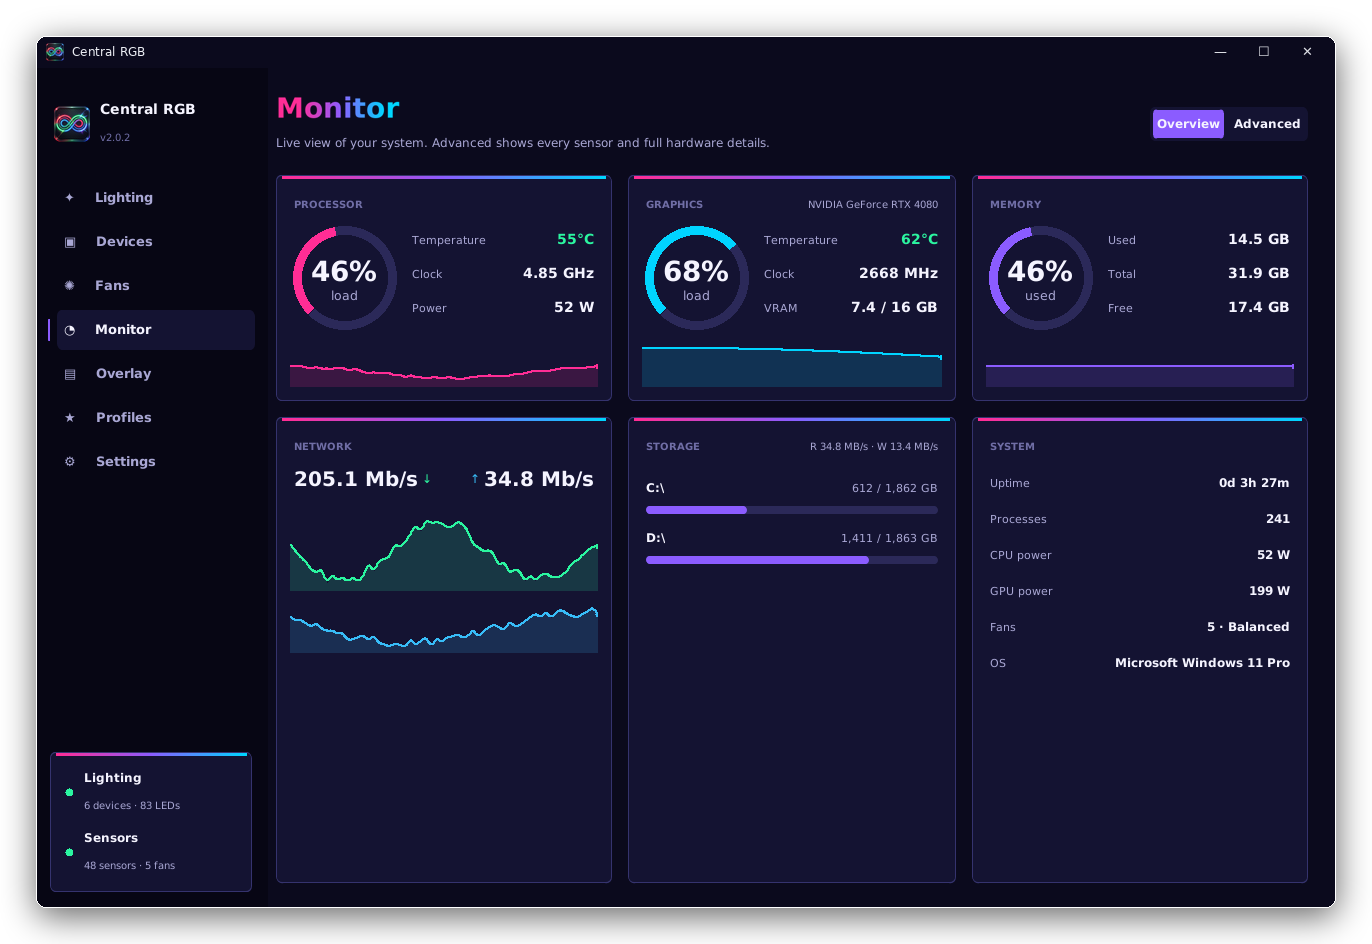
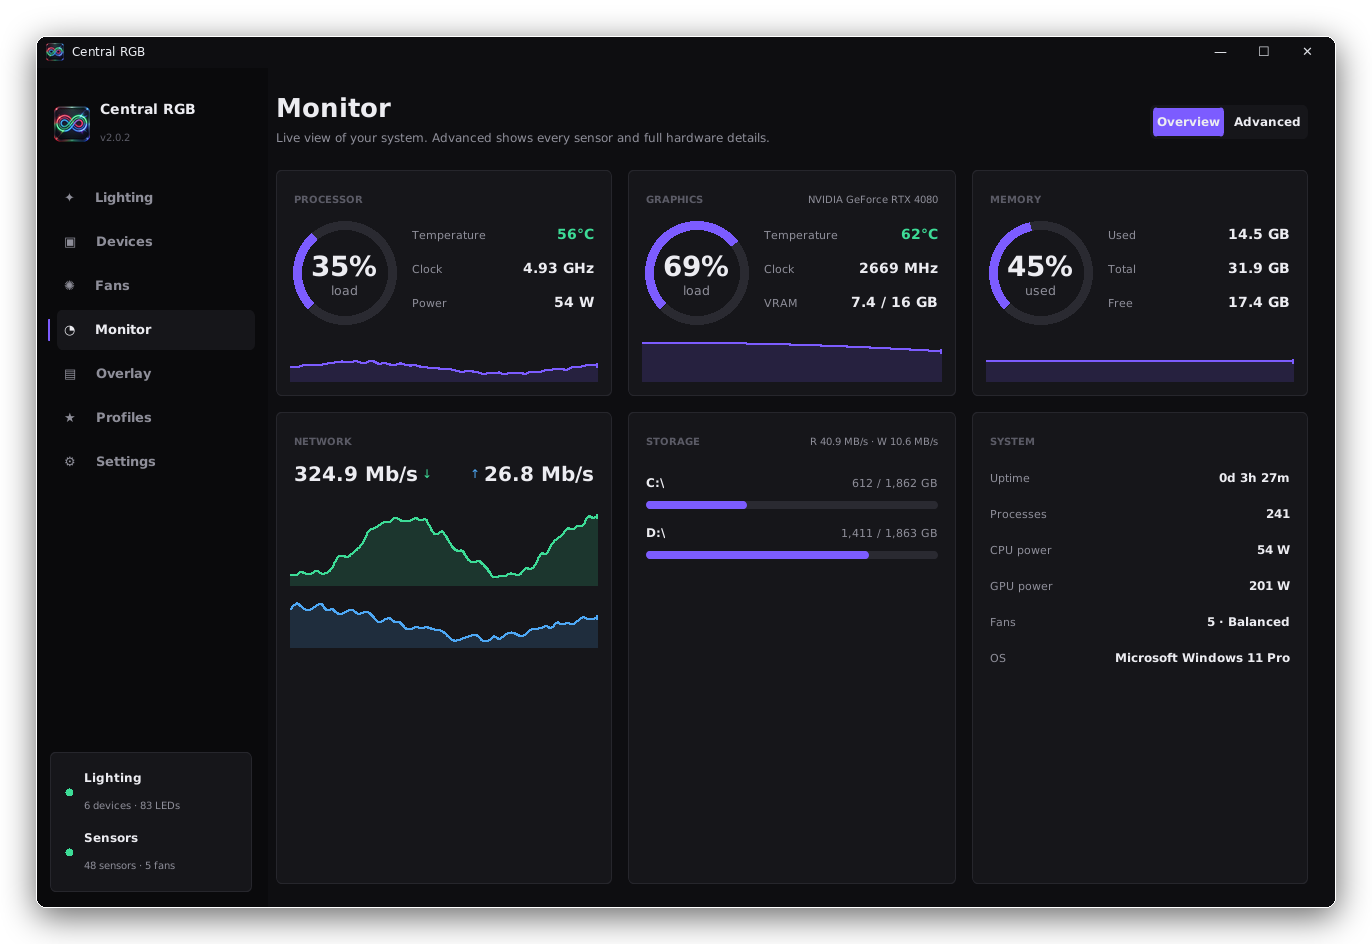
Simple dark theme, installer compatibility check and build self-test
- Simple dark UI: neutral charcoal panels, one accent, no gradients
- Remove the frosted glass and window translucency (and their settings)
- Installer blocks Windows older than 10 1803 and ARM PCs with a clear message
- --selftest mode: opens every page and runs the system check, exit code reports pass/fail
- GitHub Actions launches the built exe as a self-test before building the installer

diff --git a/central_rgb.py b/central_rgb.py
@@ -11,7 +11,7 @@ Central RGB - RGB lighting, fan control and system monitoring in one sleek app.
 
 Pages: Lighting · Devices · Fans · Monitor (Overview / Advanced) · Profiles · Settings
 Layers: rgb_engine (OpenRGB lighting) · hw_monitor (sensors + fans via LibreHardwareMonitor)
-        win_effects (frosted-glass window on Windows 10/11)
+        win_effects (dark, seamless title bar on Windows 10/11)
 
 Run:  python central_rgb.py               (normal window)
       python central_rgb.py --background  (start minimized, re-apply last lighting)
@@ -43,20 +43,15 @@ APP_VERSION = eng.APP_VERSION
 TASK_NAME = "CentralRGB"
 
 # ----------------------------------------------------------------------------- palette
-# In glass mode the window background is pure black, which Windows turns into the
-# blurred desktop; dark panel colours then read as tinted, frosted glass.
-GLASS = dict(BG="#000000", SIDE="#000000", CARD="#14161c", CARD2="#1c1f27", LINE="#262a35",
-             TEXT="#f2f4f8", MUTED="#8c94a6", FAINT="#4a5061", TRACK="#22252e")
-# Default "Aurora" theme: layered indigo surfaces with vivid pink / violet / cyan accents.
-SOLID = dict(BG="#0b0a1d", SIDE="#070614", CARD="#141332", CARD2="#1e1d48", LINE="#35336e",
-             TEXT="#f5f4ff", MUTED="#a9a7d4", FAINT="#706ea6", TRACK="#2b2959")
+# Simple dark theme: neutral charcoal surfaces, one accent colour.
+SOLID = dict(BG="#0e0e11", SIDE="#0a0a0c", CARD="#16161a", CARD2="#1f1f24", LINE="#26262c",
+             TEXT="#ececf1", MUTED="#8e8e99", FAINT="#5b5b66", TRACK="#2a2a31")
 P = dict(SOLID)
-OK, WARN, BAD, INFO = "#2bf5a0", "#ffc533", "#ff4d6d", "#38bdf8"
+OK, WARN, BAD, INFO = "#3ddc97", "#f5b942", "#f2555a", "#4ea8f5"
 PINK, VIOLET, CYAN = "#ff2d95", "#8b5cff", "#00d4ff"
 GRAD = (PINK, VIOLET, CYAN)          # signature gradient
 RADIUS = 6                           # squared-off corners everywhere
-DEFAULT_OPACITY = 94                 # slightly translucent window
-DEFAULT_ACCENT = "#8b5cff"   # brand accent (vivid violet)
+DEFAULT_ACCENT = "#7c5cff"   # brand accent (violet)
 FONT = "Segoe UI Variable Display" if (eng.IS_WIN and fx.win_build() >= 22000) else ("Segoe UI" if eng.IS_WIN else "DejaVu Sans")
 MONO = "Cascadia Mono" if eng.IS_WIN else "DejaVu Sans Mono"
 
@@ -161,7 +156,8 @@ class GradBar(tk.Canvas):
 
 
 def accent_bar(frame):
-    GradBar(frame).place(x=RADIUS, y=1, relwidth=1, width=-2 * RADIUS)
+    """Cards are plain in the simple theme (kept as a hook)."""
+    return None
 
 
 class Splash(tk.Frame):
@@ -207,15 +203,6 @@ class Splash(tk.Frame):
         self.started, self.t0 = True, time.time()
         self._tick()
 
-    def _target_alpha(self):
-        return max(0.6, min(1.0, int(self.root.settings.data.get("opacity", DEFAULT_OPACITY)) / 100))
-
-    def _set_window_alpha(self, k):
-        try:
-            self.root.attributes("-alpha", self._target_alpha() * k)
-        except tk.TclError:
-            pass
-
     @staticmethod
     def _smooth(k):
         k = max(0.0, min(1.0, k))
@@ -227,8 +214,10 @@ class Splash(tk.Frame):
         t = time.time() - self.t0
         t_out = self.T_IN + self.T_HOLD
         t_dip = t_out + self.T_OUT
-        if t >= t_dip:                                   # logo is gone: cross-fade the window to the app
-            self._fade_to_app()
+        if t >= t_dip:                                   # logo has faded out: reveal the app
+            self.destroy()
+            if self.on_done:
+                self.on_done()
             return
         w, h, sc = max(self.winfo_width(), 200), max(self.winfo_height(), 200), self.sc
         cx, cy = w / 2, h / 2 - 40 * sc
@@ -258,29 +247,6 @@ class Splash(tk.Frame):
         cv.itemconfigure(self.line, fill=hexcol(mix(bg, hex2rgb(lerp_grad((t * 0.5) % 1.0)), kt)))
         self.after(1000 // self.FPS, self._tick)
 
-    def _fade_to_app(self, phase=0, t0=None):
-        """Dip the window's opacity, swap the splash for the app, and fade back up."""
-        if t0 is None:
-            t0 = time.time()
-        t = time.time() - t0
-        if phase == 0:
-            k = min(1.0, t / self.T_DIP)
-            self._set_window_alpha(1 - 0.55 * self._smooth(k))
-            if k >= 1.0:
-                if self.winfo_exists():
-                    self.place_forget()
-                self.root.after(10, lambda: self._fade_to_app(1))
-                return
-        else:
-            k = min(1.0, t / self.T_RISE)
-            self._set_window_alpha(0.45 + 0.55 * self._smooth(k))
-            if k >= 1.0:
-                if self.winfo_exists():
-                    self.destroy()
-                if self.on_done:
-                    self.on_done()
-                return
-        self.root.after(1000 // self.FPS, lambda: self._fade_to_app(phase, t0))
 
 
 def F(size, weight="normal"):
@@ -617,10 +583,11 @@ class FanCard(ctk.CTkFrame):
 class App(ctk.CTk):
     TEST_BACKEND = None   # tests can inject a simulated sensor backend
 
-    def __init__(self, background=False):
+    def __init__(self, background=False, selftest=None):
+        self.selftest = selftest          # path to write the result to, when run with --selftest
+        self.selftest_errors: list[str] = []
         self.settings = eng.Settings()
-        self.glass = bool(self.settings.data.get("glass_experimental", False)) and (fx.glass_supported() or os.environ.get("RGBC_GLASS_PALETTE"))
-        P.update(GLASS if self.glass else SOLID)
+        P.update(SOLID)
         ctk.set_appearance_mode("dark")
         super().__init__(fg_color=P["BG"])
         self.title(eng.APP_NAME)
@@ -675,18 +642,48 @@ class App(ctk.CTk):
             self.iconify()
         if self.splash is not None:
             self.splash.begin()
+        if selftest:
+            self.after(2500, self._run_selftest)
+            return
         self.after(300, lambda: self._bg(self._startup))
         self.after(800, lambda: self._bg(self._load_sysinfo))
 
+    # ---------------------------------------------------------------- self-test (used by the CI build)
+    def report_callback_exception(self, exc, val, tb):
+        msg = "".join(traceback.format_exception(exc, val, tb))
+        if self.selftest is not None:
+            self.selftest_errors.append(msg)
+        sys.stderr.write(msg)
+
+    def _run_selftest(self):
+        """Open every page, draw the overlay preview, run the system check, then report and exit."""
+        steps = []
+        try:
+            for name, _ in NAV:
+                self.show_page(name)
+                self.update()
+                steps.append(f"page {name}: ok")
+            self.overlay_preview.render(self.overlay_cfg, {"name": "test", "fps": 144, "low": 110, "ms": 6.9}, {})
+            steps.append("overlay preview: ok")
+            res = eng.system_check()
+            steps.append(f"system check: {len(res)} results")
+            for level, msg in res:
+                steps.append(f"  [{level}] {msg}")
+            steps.append(f"monitor: {self.monitor.snapshot()['status']}")
+        except Exception:
+            self.selftest_errors.append(traceback.format_exc())
+        ok = not self.selftest_errors
+        report = [f"Central RGB {eng.APP_VERSION} self-test: {'PASSED' if ok else 'FAILED'}"] + steps + self.selftest_errors
+        try:
+            Path(self.selftest).write_text("\n".join(report), encoding="utf-8")
+        except Exception:
+            pass
+        self.engine.stop()
+        os._exit(0 if ok else 1)
+
     def _window_effects(self):
         fx.dark_titlebar(self)
-        if not self.glass:
-            fx.titlebar_colors(self, P["BG"], P["LINE"], P["TEXT"])   # seamless title bar on Windows 11
-        if self.glass and fx.glass_supported():
-            fx.apply_glass(self)
-        op = int(self.settings.data.get("opacity", DEFAULT_OPACITY))
-        if op < 100:
-            fx.set_opacity(self, op)
+        fx.titlebar_colors(self, P["BG"], P["LINE"], P["TEXT"])   # seamless title bar on Windows 11
 
     def _set_icon(self):
         try:
@@ -755,7 +752,7 @@ class App(ctk.CTk):
         h.pack(fill="x", pady=(0, 18))
         txt = ctk.CTkFrame(h, fg_color="transparent")
         txt.pack(side="left", fill="x", expand=True)
-        img = grad_text(title)
+        img = None
         if img is not None:
             ctk.CTkLabel(txt, text="", image=img, anchor="w").pack(fill="x")
         else:
@@ -1286,22 +1283,22 @@ class App(ctk.CTk):
         acc = self.accent
         # CPU
         g = self.g_cpu
-        g["ring"].set(m.get("cpu_load"), fmt(m.get("cpu_load"), "%"), "load", PINK)
+        g["ring"].set(m.get("cpu_load"), fmt(m.get("cpu_load"), "%"), "load", acc)
         (l1, v1), (l2, v2), (l3, v3) = g["rows"]["a"], g["rows"]["b"], g["rows"]["c"]
         l1.configure(text="Temperature"); v1.configure(text=fmt(m.get("cpu_temp"), "°C"), text_color=temp_color(m.get("cpu_temp")))
         l2.configure(text="Clock"); v2.configure(text=fmt((m.get("cpu_clock") or 0) / 1000 if m.get("cpu_clock") else None, " GHz", 2))
         l3.configure(text="Power"); v3.configure(text=fmt(m.get("cpu_power"), " W"))
-        g["spark"].set(hist.get("cpu_load", []), 100, PINK)
+        g["spark"].set(hist.get("cpu_load", []), 100, acc)
         # GPU
         g = self.g_gpu
         g["name"].configure(text=(m.get("gpu_name") or "")[:26])
-        g["ring"].set(m.get("gpu_load"), fmt(m.get("gpu_load"), "%"), "load", CYAN)
+        g["ring"].set(m.get("gpu_load"), fmt(m.get("gpu_load"), "%"), "load", acc)
         (l1, v1), (l2, v2), (l3, v3) = g["rows"]["a"], g["rows"]["b"], g["rows"]["c"]
         l1.configure(text="Temperature"); v1.configure(text=fmt(m.get("gpu_temp"), "°C"), text_color=temp_color(m.get("gpu_temp")))
         l2.configure(text="Clock"); v2.configure(text=fmt(m.get("gpu_clock"), " MHz"))
         vu, vt = m.get("vram_used"), m.get("vram_total")
         l3.configure(text="VRAM"); v3.configure(text=f"{vu/1024:.1f} / {vt/1024:.0f} GB" if vu and vt else fmt(vu, " MB"))
-        g["spark"].set(hist.get("gpu_load", []) or [0, 0], 100, CYAN)
+        g["spark"].set(hist.get("gpu_load", []) or [0, 0], 100, acc)
         # RAM
         g = self.g_ram
         g["ring"].set(m.get("ram_pct"), fmt(m.get("ram_pct"), "%"), "used", acc)
@@ -1549,16 +1546,6 @@ class App(ctk.CTk):
         self.anim_sw.pack(anchor="w", padx=20, pady=4)
         if self.settings.data.get("animations", True):
             self.anim_sw.select()
-        self.glass_sw = Switch(opt, text="Frosted glass (experimental)", font=F(12), text_color=P["TEXT"],
-                                      command=self._toggle_glass)
-        self.glass_sw.pack(anchor="w", padx=20, pady=4)
-        if self.settings.data.get("glass_experimental", False):
-            self.glass_sw.select()
-        if not fx.glass_supported():
-            self.glass_sw.configure(text="Frosted glass (Windows 10/11 only)")
-        r, self.opacity = self.slider_row(opt, "Window opacity", int(self.settings.data.get("opacity", DEFAULT_OPACITY)),
-                                          self._set_opacity, lo=60, hi=100)
-        r.pack(fill="x", padx=20, pady=(8, 4))
         self.caption(opt, "Sensors").pack(fill="x", padx=20, pady=(10, 4))
         self.ramtemp_sw = Switch(opt, text="Read RAM temperatures (can make RGB RAM flicker)", font=F(12),
                                         text_color=P["TEXT"], command=self._toggle_ram_temps)
@@ -1605,13 +1592,6 @@ class App(ctk.CTk):
                          font=F(12, "bold")).pack(side="left", padx=10, pady=8)
             self.label(r, msg, 11, anchor="w", justify="left", wraplength=470).pack(side="left", fill="x", expand=True, padx=(0, 10), pady=6)
 
-    def _toggle_glass(self):
-        on = self.glass_sw.get() == 1
-        self.settings["glass_experimental"] = on
-        messagebox.showinfo(eng.APP_NAME, f"Frosted glass will be turned {'on' if on else 'off'} the next time "
-                                          "Central RGB starts." + ("\n\nIt's experimental: panels look lighter and "
-                                          "edges can look rough on some PCs." if on else ""))
-
     def _toggle_ram_temps(self):
         on = self.ramtemp_sw.get() == 1
         self.settings["ram_temps"] = on
@@ -1623,12 +1603,6 @@ class App(ctk.CTk):
         self.settings["accent_mode"] = "match" if choice == "Match lighting" else "central"
         self._update_accent()
 
-    def _set_opacity(self, v):
-        self.settings.data["opacity"] = v
-        self.settings.save()
-        fx.set_opacity(self, v)
-
-    # ---------------------------------------------------------------- navigation / accent / animation
     def show_page(self, name, animate=True):
         self.current_page = name
         page = self.pages[name]
@@ -1662,7 +1636,7 @@ class App(ctk.CTk):
                 pass
         for n, t in self.tiles.items():
             t.select(n == self.effect, acc)
-        for sw in (self.autostart_sw, self.restore_sw, self.glass_sw, self.ramtemp_sw, self.anim_sw):
+        for sw in (self.autostart_sw, self.restore_sw, self.ramtemp_sw, self.anim_sw):
             sw.configure(progress_color=acc)
         for card in self.device_cards:
             card.switch.configure(progress_color=acc)
@@ -2003,6 +1977,16 @@ def main():
             ctypes.windll.shell32.SetCurrentProcessExplicitAppUserModelID("CentralRGB.App")
         except Exception:
             pass
+    selftest = None
+    if "--selftest" in sys.argv:
+        i = sys.argv.index("--selftest")
+        selftest = sys.argv[i + 1] if i + 1 < len(sys.argv) else str(Path(eng.settings_dir()) / "selftest.txt")
+        try:
+            App(selftest=selftest).mainloop()
+        except Exception:
+            Path(selftest).write_text("Central RGB self-test: FAILED\n" + traceback.format_exc(), encoding="utf-8")
+            os._exit(1)
+        return
     App(background="--background" in sys.argv).mainloop()
 
 

diff --git a/win_effects.py b/win_effects.py
@@ -7,8 +7,8 @@
 # GNU General Public License for more details: <https://www.gnu.org/licenses/>.
 # SPDX-License-Identifier: GPL-3.0-or-later
 """
-Windows window effects: frosted-glass (acrylic) blur behind the window, dark title bar,
-and whole-window opacity. Safe no-ops on other systems / older Windows.
+Windows window styling: dark title bar and (Windows 11) title bar colours that match the app.
+The glass and opacity helpers below are no longer used by the app. Safe no-ops on other systems / older Windows.
 
 How the glass works with Tk: DWM blurs whatever is behind the window and the window's
 pure-black (#000000) pixels become see-through, so the app paints its background black

diff --git a/README.md b/README.md
@@ -20,7 +20,7 @@ A free and open-source Windows desktop app that controls **all the RGB lighting 
 - **System monitor**: live CPU, GPU and memory gauges, network and storage graphs, and an **Advanced** view with every hardware sensor and full system details
 - **Profiles** to save your favorite looks and switch between them in one click
 - **In-game FPS overlay**: FPS, 1% low, frame time and CPU/GPU temperatures on top of your games, measured with Intel PresentMon (nothing is injected into the game)
-- **Vivid "Aurora" interface**: layered indigo panels with pink, violet and cyan accents, squared corners, a startup animation and a slightly translucent window
+- **Simple dark interface**: clean charcoal panels with one accent color, plus a short startup animation with the logo
 - **Starts with Windows** (optional) and reapplies your lighting and fan profile at login
 - **Normal Windows installer**: choose where to install it, and get a desktop shortcut and an uninstaller
 
@@ -67,7 +67,7 @@ You can remove it separately from *Settings → Apps*.
 
 | Requirement | Why |
 |---|---|
-| Windows 10 (1803+) or Windows 11, 64-bit | Hardware access and the window styling are Windows-only |
+| Windows 10 (1803+) or Windows 11, 64-bit Intel/AMD PC (ARM PCs aren't supported) | Hardware access and the window styling are Windows-only |
 | Administrator rights | Needed for RAM and motherboard lighting, sensors and fan control. The .exe asks for them automatically. |
 | [PawnIO](https://pawnio.eu) driver | Low-level driver used by OpenRGB and LibreHardwareMonitor for RGB RAM, older motherboards, fan control and most temperature sensors. **The installer sets it up for you.** If you use the portable .exe, install it yourself from pawnio.eu. |
 | .NET Framework 4.7.2+ | Already built into Windows 10 and 11. Used to load LibreHardwareMonitor. |
@@ -91,7 +91,7 @@ You can remove it separately from *Settings → Apps*.
   </tr>
   <tr>
     <td><img src="assets/screenshots/advanced.png" alt="Monitor advanced view"><br><b>Monitor → Advanced</b>: every sensor (value / min / max) plus full system details</td>
-    <td><img src="assets/screenshots/settings.png" alt="Settings page"><br><b>Settings</b>: system check, accent color, opacity, sensor and startup options, and an activity log</td>
+    <td><img src="assets/screenshots/settings.png" alt="Settings page"><br><b>Settings</b>: system check, accent color, sensor and startup options, and an activity log</td>
   </tr>
   <tr>
     <td><img src="assets/screenshots/overlay.png" alt="Overlay page"><br><b>Overlay</b>: in-game FPS and temperature readout with position, size and item options</td>
@@ -122,7 +122,7 @@ flowchart LR
 
 A [CustomTkinter](https://github.com/TomSchimansky/CustomTkinter) app with a sidebar and six pages. Pieces like the color wheel, LED strips, fan curve editor, ring gauges and graphs are custom-drawn on canvases, so they can animate smoothly.
 
-- A layered "Aurora" palette with a pink-to-cyan signature gradient. Switch **Settings → Accent color** to **Match lighting** and the buttons, sliders and switches take on your lighting color, toned down so text stays readable.
+- A simple dark palette with one violet accent. Switch **Settings → Accent color** to **Match lighting** and the buttons, sliders and switches take on your lighting color, toned down so text stays readable.
 - Slow work (starting OpenRGB, downloads, the system check) runs on background threads. Results come back to the window through a queue that's checked every 100 ms, so the window never freezes.
 - Everything you change is saved instantly to `%APPDATA%\CentralRGB\settings.json`.
 
@@ -193,9 +193,7 @@ EMERGENCY_TEMP = 90   # CPU or GPU at 90 °C or more -> every fan to 100 %
 - Dark title bar on Windows 10 and 11 (`DWMWA_USE_IMMERSIVE_DARK_MODE`).
 - On Windows 11 the title bar, caption text and window border are painted in the app's own colors
   (`DWMWA_CAPTION_COLOR`, `DWMWA_TEXT_COLOR`, `DWMWA_BORDER_COLOR`), so the window looks like one seamless surface.
-- Rounded window corners on Windows 11, and an optional whole-window opacity slider (60–100%).
-- **Frosted glass (experimental, off by default):** acrylic blur behind the window, using the system backdrop on Windows 11 22H2+
-  or the accent policy on Windows 10. Tk can't draw true translucent panels, so it trades contrast and smooth edges for the blur.
+- Rounded window corners on Windows 11.
   That's why the solid theme is the default.
 
 ---
@@ -218,7 +216,7 @@ EMERGENCY_TEMP = 90   # CPU or GPU at 90 °C or more -> every fan to 100 %
 | Monitor → Advanced | Search and filter every sensor, copy full system details to the clipboard |
 | Overlay | Turn on the in-game overlay, choose its corner and size, and pick what it shows (FPS, 1% low, frame time, CPU, GPU). It works over windowed and borderless-fullscreen games; exclusive fullscreen can cover it. |
 | Profiles | Save the current look under a name, then load or delete it later |
-| Settings | System check, accent color (Central or match lighting), opacity, RAM temperature reading, frosted glass (experimental), start with Windows, reapply lighting on launch, activity log |
+| Settings | System check, accent color (Central or match lighting), startup animation, RAM temperature reading, start with Windows, reapply lighting on launch, activity log |
 
 > [!IMPORTANT]
 > Animated effects and custom fan profiles only run while Central RGB is open. Closing the window offers to **minimize instead**. If you quit, the lights stay on their last frame and the fans go back to BIOS control.
@@ -247,7 +245,7 @@ py -m pip install -r requirements.txt
 py central_rgb.py
 ```
 
-**GitHub Actions**: every push to `main` builds the .exe and the installer on a Windows runner (see `.github/workflows/build.yml`). Publishing a GitHub Release builds both files and attaches them to it, using the release tag as the version number (tag `v2.1` → app and installer show 2.1).
+**GitHub Actions**: every push to `main` builds the .exe, **launches it on a clean Windows machine as a self-test** (it opens every page, runs the system check and fails the build if anything crashes), then builds the installer (see `.github/workflows/build.yml`). Publishing a GitHub Release builds both files and attaches them to it, using the release tag as the version number (tag `v2.1` → app and installer show 2.1).
 
 ---
 
@@ -261,7 +259,6 @@ py central_rgb.py
 | Fans page says no controllable fans | Your motherboard's fan chip may not be supported yet, or its fans are set to a fixed mode in the BIOS |
 | Monitor shows "Basic stats only" | LibreHardwareMonitor couldn't load. Check the Settings → Activity log, and confirm PawnIO is installed and you're running as admin. |
 | RGB RAM blinks or flickers | Leave **Settings → Read RAM temperatures** off (the default). Reading DIMM temperatures uses the same SMBus that controls RAM lighting. Also close other monitoring tools that read RAM temps (HWiNFO, AIDA64, etc.). |
-| The window looks washed out or has rough edges | Turn off **Frosted glass (experimental)** in Settings and restart the app |
 | Antivirus flags the .exe | New PyInstaller builds are sometimes flagged by mistake. Allow the file, or run from source. |
 
 ---
@@ -274,7 +271,7 @@ CentralRGB/
 ├── rgb_engine.py         # OpenRGB setup, lighting effects, system check, settings
 ├── hw_monitor.py         # LibreHardwareMonitor sensors, fan logic, system details
 ├── fps_overlay.py        # in-game FPS overlay (PresentMon)
-├── win_effects.py        # title bar colors, opacity, experimental glass
+├── win_effects.py        # dark, seamless title bar
 ├── central_rgb.ico/.png  # app icon
 ├── central_rgb.iss       # Inno Setup installer script
 ├── build.bat             # one-click build (exe + installer)
